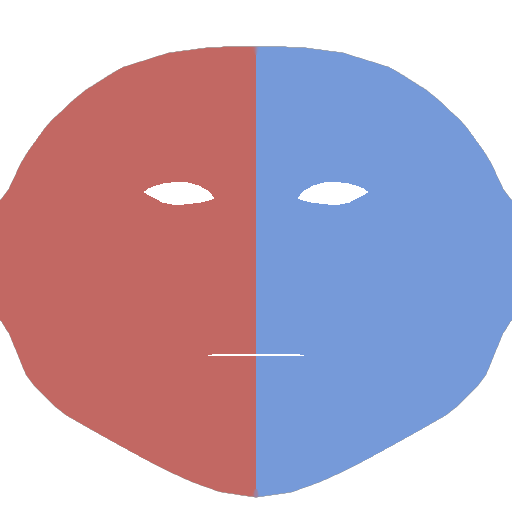
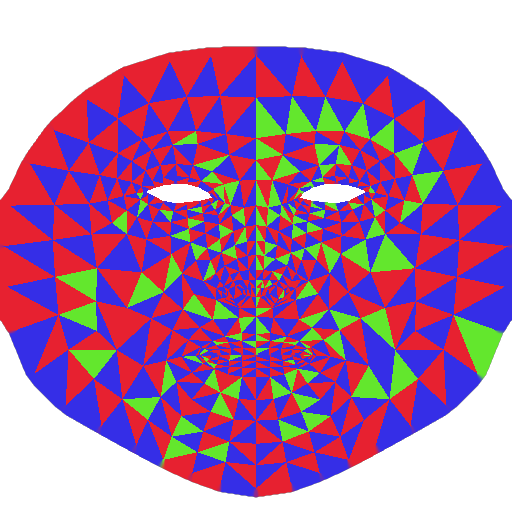
mute

diff --git a/client/src/effects/EffectsWebGL/lib/BaseShader.ts b/client/src/effects/EffectsWebGL/lib/BaseShader.ts
@@ -272,8 +272,6 @@ class BaseShader {
   }
 
   private initVideoTexture() {
-    this.use();
-
     this.videoTexture = this.gl.createTexture();
     this.gl.activeTexture(this.gl.TEXTURE0);
     this.gl.bindTexture(this.gl.TEXTURE_2D, this.videoTexture);
@@ -357,14 +355,6 @@ class BaseShader {
     const geometryTriangles: number[] = [];
     const uvTriangles: number[] = [];
     const normals: number[] = [];
-    const faceNormals: Point3D[] = [];
-    const vertexNormals: Point3D[] = Array(
-      geometryTrianglesIndices.length
-    ).fill({
-      x: 0,
-      y: 0,
-      z: 0,
-    });
 
     for (let i = 0; i < geometryTrianglesIndices.length; i += 3) {
       const index0 = geometryTrianglesIndices[i];
@@ -398,19 +388,21 @@ class BaseShader {
         y: normal.y / length,
         z: normal.z / length,
       };
-      faceNormals.push(normalizedNormal);
 
-      // Accumulate the face normals for each vertex
-      vertexNormals[index0].x += normalizedNormal.x;
-      vertexNormals[index0].y += normalizedNormal.y;
-      vertexNormals[index0].z += normalizedNormal.z;
-      vertexNormals[index1].x += normalizedNormal.x;
-      vertexNormals[index1].y += normalizedNormal.y;
-      vertexNormals[index1].z += normalizedNormal.z;
-      vertexNormals[index2].x += normalizedNormal.x;
-      vertexNormals[index2].y += normalizedNormal.y;
-      vertexNormals[index2].z += normalizedNormal.z;
+      // Assign the same face normal to all vertices of the triangle
+      normals.push(
+        -normalizedNormal.x,
+        -normalizedNormal.y,
+        normalizedNormal.z,
+        -normalizedNormal.x,
+        -normalizedNormal.y,
+        normalizedNormal.z,
+        -normalizedNormal.x,
+        -normalizedNormal.y,
+        normalizedNormal.z
+      );
 
+      // Store vertex positions
       if (v0 && v1 && v2) {
         geometryTriangles.push(
           v0.x,
@@ -426,10 +418,15 @@ class BaseShader {
           v2.z
         );
       }
+
+      // Store UV coords
       if (
-        uvPoints[index0] !== undefined &&
-        uvPoints[index1] !== undefined &&
-        uvPoints[index2] !== undefined
+        uvPoints[index0 * 2] !== undefined &&
+        uvPoints[index0 * 2 + 1] !== undefined &&
+        uvPoints[index1 * 2] !== undefined &&
+        uvPoints[index1 * 2 + 1] !== undefined &&
+        uvPoints[index2 * 2] !== undefined &&
+        uvPoints[index2 * 2 + 1] !== undefined
       ) {
         uvTriangles.push(
           uvPoints[index0 * 2],
@@ -442,23 +439,6 @@ class BaseShader {
           uvPoints[index2 * 2 + 1]
         );
       }
-    }
-
-    // Normalize the accumulated normals for each vertex
-    for (let i = 0; i < geometryPoints.length; i++) {
-      const length = Math.sqrt(
-        vertexNormals[i].x ** 2 +
-          vertexNormals[i].y ** 2 +
-          vertexNormals[i].z ** 2
-      );
-      vertexNormals[i].x /= length;
-      vertexNormals[i].y /= length;
-      vertexNormals[i].z /= length;
-    }
-
-    // Convert vertex normals to normals array
-    for (const normal of vertexNormals) {
-      normals.push(normal.x, normal.y, normal.z);
     }
 
     return { geometryTriangles, uvTriangles, normals };
@@ -485,8 +465,6 @@ class BaseShader {
     type: "twoDim" | "threeDim",
     atlasImages: { [URLType: string]: string }
   ) {
-    this.use();
-
     if (type === "twoDim") {
       this.twoDimAltasTexMap = atlasImages;
       this.twoDimAtlas = new Atlas(this.gl, -0.1);
@@ -520,8 +498,6 @@ class BaseShader {
     ) {
       return;
     }
-
-    this.use();
 
     // Switch the texture used in the fragment shader
     this.switchTextureFlag(this.TWO_DIMENSIONAL_EFFECTS_BIT);
@@ -646,8 +622,6 @@ class BaseShader {
       return;
     }
 
-    this.use();
-
     this.switchTextureFlag(this.VIDEO_BIT);
 
     this.gl.uniform2f(
@@ -726,8 +700,6 @@ class BaseShader {
     ) {
       return;
     }
-
-    this.use();
 
     // Load mesh if it has already been load and return if no mesh url is found
     if (this.meshes && this.meshes[meshType]) {
@@ -891,8 +863,6 @@ class BaseShader {
     ) {
       return;
     }
-
-    this.use();
 
     // Load uv mesh data
     if (this.meshes && this.meshes[meshType]) {

diff --git a/client/src/effects/EffectsWebGL/handleEffectWebGL.ts b/client/src/effects/EffectsWebGL/handleEffectWebGL.ts
@@ -1,12 +1,7 @@
 import { EffectTypes } from "../../context/StreamsContext";
 import render from "./lib/render";
 import createStopFunction from "./lib/createStopFunction";
-import {
-  beardChinOffsetsMap,
-  earsWidthFactorMap,
-  EffectStylesType,
-  mustacheNoseOffsetsMap,
-} from "../../context/CurrentEffectsStylesContext";
+import { EffectStylesType } from "../../context/CurrentEffectsStylesContext";
 import updateDeadbandingMaps from "./lib/updateDeadbandingMaps";
 import { FaceMesh, Results } from "@mediapipe/face_mesh";
 import { releaseAllTexturePositions } from "./lib/handleTexturePosition";
